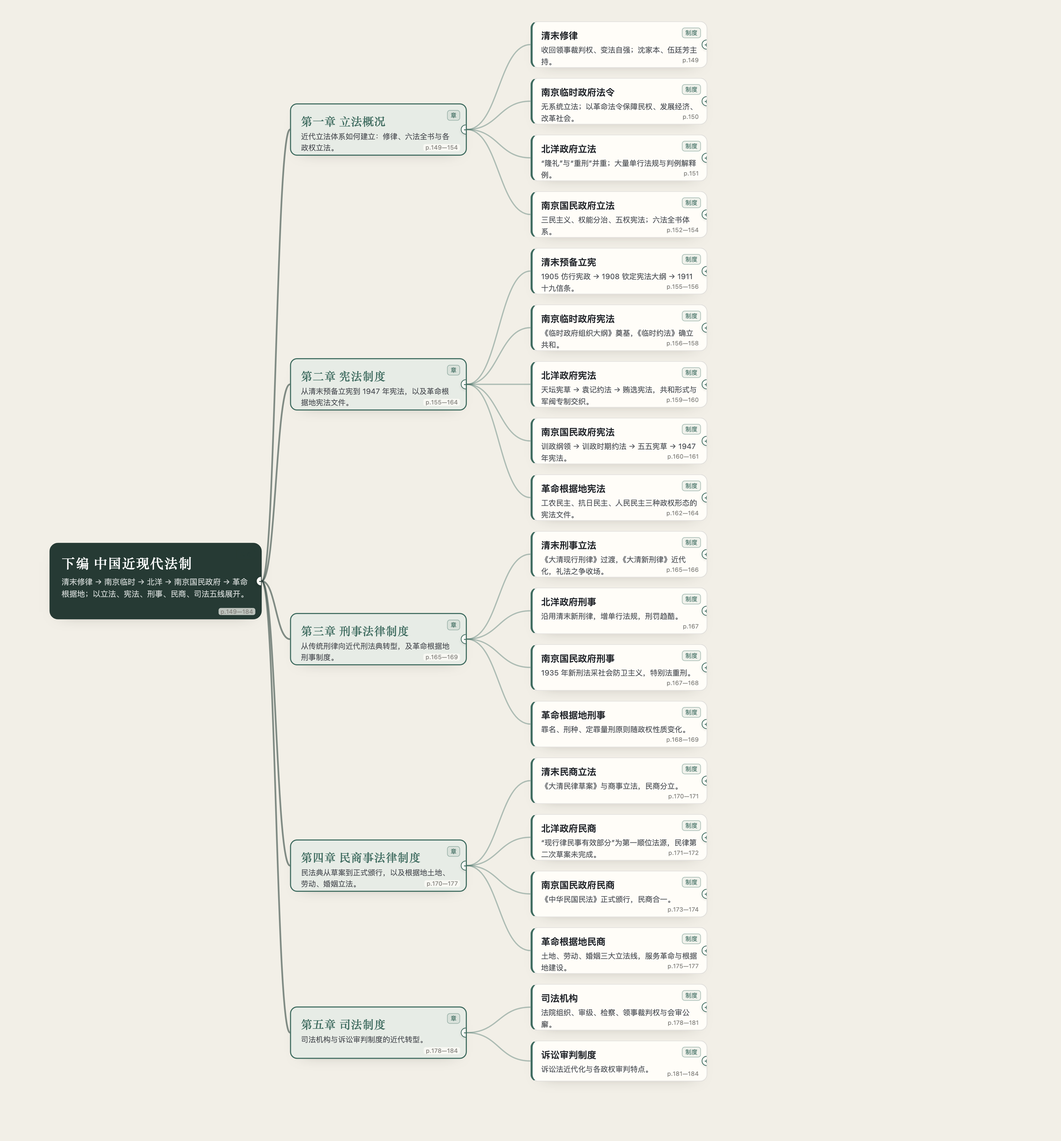
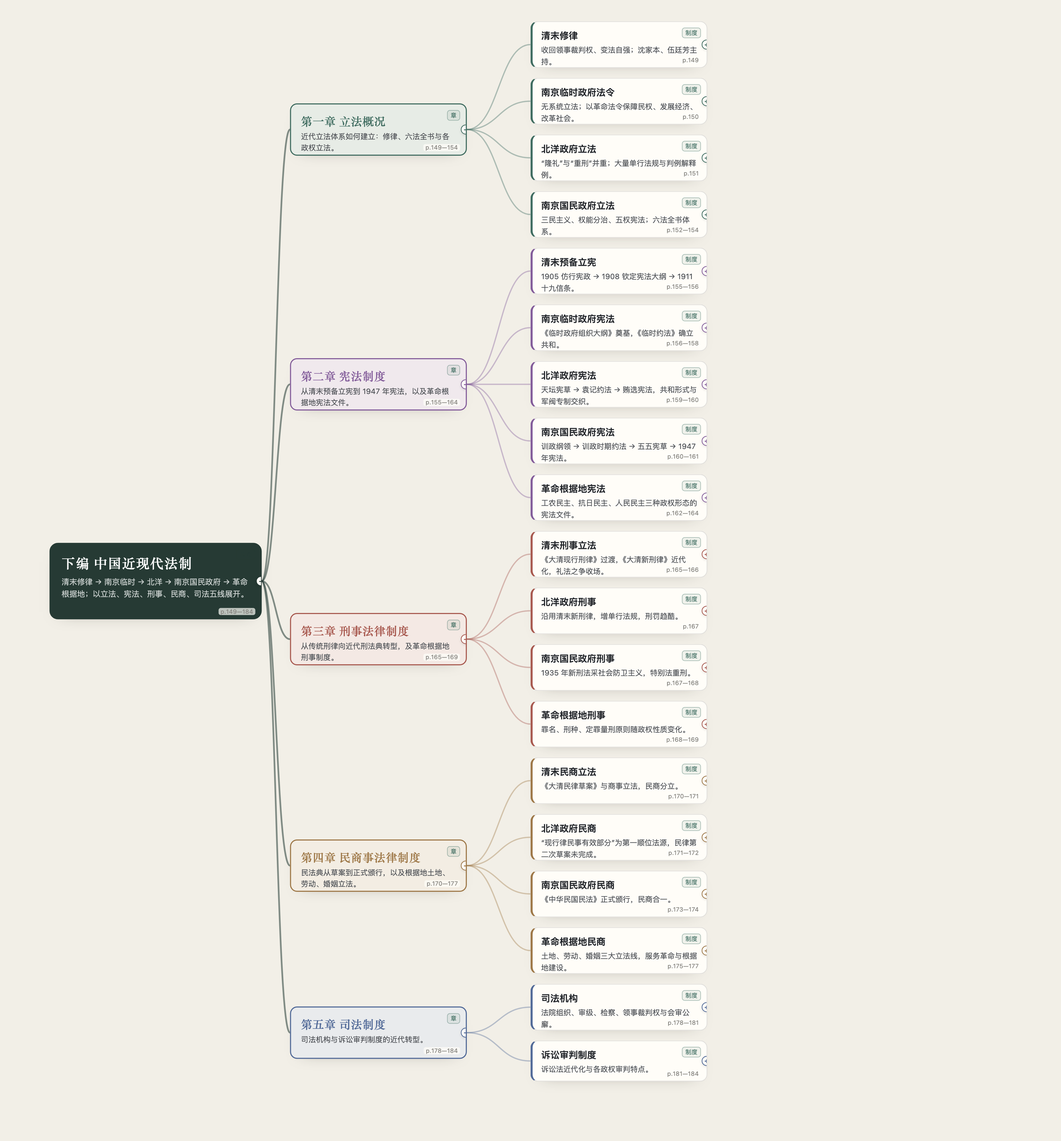
fix: 修正思维导图章节配色与下载资源

diff --git a/app/mindmap/index.html b/app/mindmap/index.html
@@ -110,7 +110,7 @@ body.export .node{cursor:default}
 </div>
 
 <script>
-const DATA = {"title": "下编 中国近现代法制", "note": "清末修律 → 南京临时 → 北洋 → 南京国民政府 → 革命根据地；以立法、宪法、刑事、民商、司法五线展开。", "page": "p.149—184", "tag": "总览", "children": [{"title": "第一章 立法概况", "note": "近代立法体系如何建立：修律、六法全书与各政权立法。", "page": "p.149—154", "tag": "章", "children": [{"title": "清末修律", "note": "收回领事裁判权、变法自强；沈家本、伍廷芳主持。", "page": "p.149", "tag": "制度", "children": [{"title": "修律动因", "note": "收回领事裁判权、变法自强；1901《江楚会奏变法三折》。", "page": "p.149", "tag": "背景", "children": [], "_depth": 3, "_chapter": 1, "_color": null}, {"title": "指导思想", "note": "“中外通行，有裨治理”；“不戾乎中国数千年相传之礼教民情”。", "page": "p.149", "tag": "原则", "children": [], "_depth": 3, "_chapter": 1, "_color": null}, {"title": "修律机关", "note": "修订法律馆（1904 开始办公）；修律大臣沈家本、伍廷芳。", "page": "p.149", "tag": "机构", "children": [], "_depth": 3, "_chapter": 1, "_color": null}, {"title": "主要特点", "note": "借西法形式、固守君主专制与伦理纲常；诸法合体解体；保皇实质。", "page": "p.150", "tag": "特点", "children": [], "_depth": 3, "_chapter": 1, "_color": null}, {"title": "历史意义", "note": "中华法系解体；法律近代化基础；传播西法；推动资本主义与法学教育。", "page": "p.150", "tag": "意义", "children": [], "_depth": 3, "_chapter": 1, "_color": null}], "_depth": 2, "_chapter": 1, "_color": null}, {"title": "南京临时政府法令", "note": "无系统立法；以革命法令保障民权、发展经济、改革社会。", "page": "p.150", "tag": "制度", "children": [{"title": "保障民权", "note": "《保护人民财产令》；禁止买卖人口、废除贱民、保护华侨。", "page": "p.150", "tag": "制度", "children": [], "_depth": 3, "_chapter": 1, "_color": null}, {"title": "发展经济", "note": "兴办实业、奖励农垦、鼓励华侨投资；商业注册、商业银行则例。", "page": "p.150", "tag": "制度", "children": [], "_depth": 3, "_chapter": 1, "_color": null}, {"title": "文化教育", "note": "奖励女学、男女同校、废止读经、禁用前清教科书。", "page": "p.150", "tag": "制度", "children": [], "_depth": 3, "_chapter": 1, "_color": null}, {"title": "社会改革", "note": "禁赌、剪辫、劝禁缠足、改革称呼旧制。", "page": "p.150", "tag": "制度", "children": [], "_depth": 3, "_chapter": 1, "_color": null}], "_depth": 2, "_chapter": 1, "_color": null}, {"title": "北洋政府立法", "note": "“隆礼”与“重刑”并重；大量单行法规与判例解释例。", "page": "p.151", "tag": "制度", "children": [{"title": "立法指导思想", "note": "倡导伦理纲常、尊孔读经；隆礼重刑，严刑峻法。", "page": "p.151", "tag": "原则", "children": [], "_depth": 3, "_chapter": 1, "_color": null}, {"title": "立法活动特点", "note": "采西方原则；沿用删改清末法律；大量单行法规；判例解释例为重要渊源。", "page": "p.151", "tag": "特点", "children": [], "_depth": 3, "_chapter": 1, "_color": null}], "_depth": 2, "_chapter": 1, "_color": null}, {"title": "南京国民政府立法", "note": "三民主义、权能分治、五权宪法；六法全书体系。", "page": "p.152—154", "tag": "制度", "children": [{"title": "立法指导思想", "note": "三民主义为核心；权能分治（政权/治权）；五权宪法；军政—训政—宪政。", "page": "p.152", "tag": "原则", "children": [], "_depth": 3, "_chapter": 1, "_color": null}, {"title": "法律制度特点", "note": "以孙中山遗教为根本；特别法多于普通法且效力高；六法全书；不成文法重要。", "page": "p.153", "tag": "特点", "children": [], "_depth": 3, "_chapter": 1, "_color": null}, {"title": "立法阶段", "note": "1927—1936 形成；1937—1945 发展（两面性）；1946—1949 完善与崩溃。", "page": "p.153", "tag": "背景", "children": [], "_depth": 3, "_chapter": 1, "_color": null}, {"title": "六法全书", "note": "宪法、民法、民诉、刑法、刑诉、行政法；基本法典+相关法规+判例解释例。", "page": "p.153—154", "tag": "法典", "children": [], "_depth": 3, "_chapter": 1, "_color": null}], "_depth": 2, "_chapter": 1, "_color": null}], "_depth": 1, "_chapter": 1, "_color": "#2f6d5f"}, {"title": "第二章 宪法制度", "note": "从清末预备立宪到 1947 年宪法，以及革命根据地宪法文件。", "page": "p.155—164", "tag": "章", "children": [{"title": "清末预备立宪", "note": "1905 仿行宪政 → 1908 钦定宪法大纲 → 1911 十九信条。", "page": "p.155—156", "tag": "制度", "children": [{"title": "预备立宪时间线", "note": "1905 五大臣考察；1906 宣示预备立宪；1907 筹设资政院/咨议局；1908 九年清单；1909 咨议局；1910 资政院；1911 十九信条。", "page": "p.155", "tag": "背景", "children": [], "_depth": 3, "_chapter": 1, "_color": null}, {"title": "《钦定宪法大纲》", "note": "1908；中国第一个宪法性文件；宪政编查馆；君上大权+臣民权利义务。", "page": "p.155—156", "tag": "法典", "children": [], "_depth": 3, "_chapter": 1, "_color": null}, {"title": "《十九信条》", "note": "1911；资政院；君主立宪；缩皇权、扩国会；未提人民权利。", "page": "p.155—156", "tag": "法典", "children": [], "_depth": 3, "_chapter": 1, "_color": null}, {"title": "资政院与咨议局", "note": "资政院中央咨询机关（1910）；咨议局地方咨询机关（1909）；形式议会、实为咨询。", "page": "p.156", "tag": "机构", "children": [], "_depth": 3, "_chapter": 1, "_color": null}], "_depth": 2, "_chapter": 1, "_color": null}, {"title": "南京临时政府宪法", "note": "《临时政府组织大纲》奠基，《临时约法》确立共和。", "page": "p.156—158", "tag": "制度", "children": [{"title": "《临时政府组织大纲》", "note": "1911.12；各省都督府代表会议；总统制；参议院；临时中央审判所；未列人民权利。", "page": "p.156", "tag": "法典", "children": [], "_depth": 3, "_chapter": 1, "_color": null}, {"title": "《临时约法》内容", "note": "1912.3；7章56条；民主共和、三权分立、责任内阁、人民权利、私有财产。", "page": "p.157", "tag": "法典", "children": [], "_depth": 3, "_chapter": 1, "_color": null}, {"title": "《临时约法》特点", "note": "改总统制为责任内阁制；扩大参议院权力；特别修改程序（防袁）。", "page": "p.158", "tag": "特点", "children": [], "_depth": 3, "_chapter": 1, "_color": null}, {"title": "《临时约法》意义", "note": "第一部资产阶级共和国性质宪法文件；否定君主专制；因人立法局限。", "page": "p.158", "tag": "意义", "children": [], "_depth": 3, "_chapter": 1, "_color": null}], "_depth": 2, "_chapter": 1, "_color": null}, {"title": "北洋政府宪法", "note": "天坛宪草 → 袁记约法 → 贿选宪法，共和形式与军阀专制交织。", "page": "p.159—160", "tag": "制度", "children": [{"title": "天坛宪草", "note": "1913；第一部宪法草案；责任内阁；国会权力+国会委员会；总统任期5年；审计院。", "page": "p.159", "tag": "法典", "children": [], "_depth": 3, "_chapter": 1, "_color": null}, {"title": "袁记约法", "note": "1914；总统制；废国会设参政院；总统10年可连任/世袭；权利受限。", "page": "p.159", "tag": "法典", "children": [], "_depth": 3, "_chapter": 1, "_color": null}, {"title": "贿选宪法", "note": "1923；第一部正式宪法；条文完备、形式民主；地方自治实为军阀势力范围。", "page": "p.160", "tag": "法典", "children": [], "_depth": 3, "_chapter": 1, "_color": null}], "_depth": 2, "_chapter": 1, "_color": null}, {"title": "南京国民政府宪法", "note": "训政纲领 → 训政时期约法 → 五五宪草 → 1947 年宪法。", "page": "p.160—161", "tag": "制度", "children": [{"title": "《训政纲领》", "note": "1928；国民党一党专政、以党训政；中央政治会议领导政府。", "page": "p.160", "tag": "法典", "children": [], "_depth": 3, "_chapter": 1, "_color": null}, {"title": "《训政时期约法》", "note": "1931；党治；五院制；权利限制；发展官僚资本。", "page": "p.160", "tag": "法典", "children": [], "_depth": 3, "_chapter": 1, "_color": null}, {"title": "《五五宪草》", "note": "1936；未议决；1947 年宪法蓝本；总统制、国民大会、五院制衡。", "page": "p.161", "tag": "法典", "children": [], "_depth": 3, "_chapter": 1, "_color": null}, {"title": "1947 年《中华民国宪法》", "note": "三民主义/五权；国民大会；总统制受制约；中央地方分权；1948 年《动员戡乱时期临时条款》。", "page": "p.161", "tag": "法典", "children": [], "_depth": 3, "_chapter": 1, "_color": null}], "_depth": 2, "_chapter": 1, "_color": null}, {"title": "革命根据地宪法", "note": "工农民主、抗日民主、人民民主三种政权形态的宪法文件。", "page": "p.162—164", "tag": "制度", "children": [{"title": "《中华苏维埃共和国宪法大纲》", "note": "1931；工农民主专政；工农兵代表大会；权利；外交；意义与局限。", "page": "p.162", "tag": "法典", "children": [], "_depth": 3, "_chapter": 1, "_color": null}, {"title": "《陕甘宁边区施政纲领》", "note": "1941；抗日/团结/民主；参议会+三三制；司法廉洁；经济文化。", "page": "p.163", "tag": "法典", "children": [], "_depth": 3, "_chapter": 1, "_color": null}, {"title": "《陕甘宁边区宪法原则》", "note": "1946；人民代表会议制；民主权利/民族区域自治；司法原则；经济文化。", "page": "p.163", "tag": "法典", "children": [], "_depth": 3, "_chapter": 1, "_color": null}], "_depth": 2, "_chapter": 1, "_color": null}], "_depth": 1, "_chapter": 1, "_color": "#2f6d5f"}, {"title": "第三章 刑事法律制度", "note": "从传统刑律向近代刑法典转型，及革命根据地刑事制度。", "page": "p.165—169", "tag": "章", "children": [{"title": "清末刑事立法", "note": "《大清现行刑律》过渡，《大清新刑律》近代化，礼法之争收场。", "page": "p.165—166", "tag": "制度", "children": [{"title": "《大清现行刑律》", "note": "1910.5；过渡；保留名例/诸法合体/十恶/律例合编；删酷刑缘坐、区分民刑、新罪名、五刑。", "page": "p.165", "tag": "法典", "children": [], "_depth": 3, "_chapter": 1, "_color": null}, {"title": "《大清新刑律》", "note": "1911.1；第一部近代专门刑法典；总则/分则+《暂行章程》；取消十恶；主刑5/从刑2；西原则。", "page": "p.165—166", "tag": "法典", "children": [], "_depth": 3, "_chapter": 1, "_color": null}, {"title": "礼法之争", "note": "礼教派张之洞、劳乃宣 vs 法理派沈家本、杨度；焦点5；结局《暂行章程》。", "page": "p.166", "tag": "对比", "children": [], "_depth": 3, "_chapter": 1, "_color": null}], "_depth": 2, "_chapter": 1, "_color": null}, {"title": "北洋政府刑事", "note": "沿用清末新刑律，增单行法规，刑罚趋酷。", "page": "p.167", "tag": "制度", "children": [{"title": "《暂行新刑律》", "note": "以《大清新刑律》为基础；删帝制/皇室特权；改“帝国”为“中华民国”、“臣民”为“国民”。", "page": "p.167", "tag": "法典", "children": [], "_depth": 3, "_chapter": 1, "_color": null}, {"title": "单行刑事法规", "note": "《戒严法》《治安警察条例》《惩治盗匪法》《易笞条例》等；恢复发遣、笞刑。", "page": "p.167", "tag": "法典", "children": [], "_depth": 3, "_chapter": 1, "_color": null}], "_depth": 2, "_chapter": 1, "_color": null}, {"title": "南京国民政府刑事", "note": "1935 年新刑法采社会防卫主义，特别法重刑。", "page": "p.167—168", "tag": "制度", "children": [{"title": "1935 年《中华民国刑法》", "note": "主观主义/社会防卫；保安处分；保留尊亲属加重、同居相隐、亲族盗免、纳妾；从新从轻。", "page": "p.167", "tag": "法典", "children": [], "_depth": 3, "_chapter": 1, "_color": null}, {"title": "刑事特别法", "note": "数量多、效力高、重刑；镇压共产党与进步人士。", "page": "p.168", "tag": "特点", "children": [], "_depth": 3, "_chapter": 1, "_color": null}], "_depth": 2, "_chapter": 1, "_color": null}, {"title": "革命根据地刑事", "note": "罪名、刑种、定罪量刑原则随政权性质变化。", "page": "p.168—169", "tag": "制度", "children": [{"title": "罪名", "note": "抗日：汉奸、破坏坚壁财物、贪污；人民民主：战犯、地主恶霸、土匪、反动党团、会道门。", "page": "p.168", "tag": "制度", "children": [], "_depth": 3, "_chapter": 1, "_color": null}, {"title": "刑种", "note": "抗日主刑死刑/有期/劳役，从刑罚金/褫夺公权/没收；人民民主加无期、管制。", "page": "p.168—169", "tag": "制度", "children": [], "_depth": 3, "_chapter": 1, "_color": null}, {"title": "定罪量刑原则", "note": "工农民主5项；抗日3项；人民民主“首恶必办、胁从不问、立功受奖”。", "page": "p.169", "tag": "原则", "children": [], "_depth": 3, "_chapter": 1, "_color": null}], "_depth": 2, "_chapter": 1, "_color": null}], "_depth": 1, "_chapter": 1, "_color": "#2f6d5f"}, {"title": "第四章 民商事法律制度", "note": "民法典从草案到正式颁行，以及根据地土地、劳动、婚姻立法。", "page": "p.170—177", "tag": "章", "children": [{"title": "清末民商立法", "note": "《大清民律草案》与商事立法，民商分立。", "page": "p.170—171", "tag": "制度", "children": [{"title": "《大清民律草案》", "note": "1911.10；5编；民商分立；前3编松冈义正（日德瑞），后2编礼学馆传统；第一部民法典草案。", "page": "p.170", "tag": "法典", "children": [], "_depth": 3, "_chapter": 1, "_color": null}, {"title": "商事立法", "note": "1903—1907/1907—1911；《钦定大清商律》《公司注册试办章程》《商标注册试办章程》《破产律》等；特点3。", "page": "p.170—171", "tag": "法典", "children": [], "_depth": 3, "_chapter": 1, "_color": null}], "_depth": 2, "_chapter": 1, "_color": null}, {"title": "北洋政府民商", "note": "“现行律民事有效部分”为第一顺位法源，民律第二次草案未完成。", "page": "p.171—172", "tag": "制度", "children": [{"title": "民事法律渊源", "note": "现行律民事有效部分（近20年）；单行法令；判例解释例；习惯法/条理。", "page": "p.171", "tag": "制度", "children": [], "_depth": 3, "_chapter": 1, "_color": null}, {"title": "《民律第二次草案》", "note": "1926；5编1522条；采固有法/判例；社会本位；未正式立法。", "page": "p.172", "tag": "法典", "children": [], "_depth": 3, "_chapter": 1, "_color": null}, {"title": "商事法规", "note": "《矿业条例》《森林法》《公司条例》《交易所法》《破产法草案》《票据法草案》等；多未完成立法。", "page": "p.172", "tag": "法典", "children": [], "_depth": 3, "_chapter": 1, "_color": null}], "_depth": 2, "_chapter": 1, "_color": null}, {"title": "南京国民政府民商", "note": "《中华民国民法》正式颁行，民商合一。", "page": "p.173—174", "tag": "制度", "children": [{"title": "《中华民国民法》", "note": "1929—1930；5编；民商合一；最新学理/婚姻家庭固有法/习惯法理/私有财产/社会本位。", "page": "p.173", "tag": "法典", "children": [], "_depth": 3, "_chapter": 1, "_color": null}, {"title": "单行商事立法", "note": "银行法、交易所法、票据法、公司法、海商法、保险法、破产法。", "page": "p.174", "tag": "法典", "children": [], "_depth": 3, "_chapter": 1, "_color": null}], "_depth": 2, "_chapter": 1, "_color": null}, {"title": "革命根据地民商", "note": "土地、劳动、婚姻三大立法线，服务革命与根据地建设。", "page": "p.175—177", "tag": "制度", "children": [{"title": "土地立法", "note": "井冈山1928/兴国1929/苏维埃土地法1931；抗日减租减息；五四指示1946；《中国土地法大纲》1947。", "page": "p.175—176", "tag": "法典", "children": [], "_depth": 3, "_chapter": 1, "_color": null}, {"title": "劳动立法", "note": "1931《中华苏维埃共和国劳动法》；抗日保护工人+团结资产阶级；1948 六次劳大。", "page": "p.176—177", "tag": "法典", "children": [], "_depth": 3, "_chapter": 1, "_color": null}, {"title": "婚姻立法", "note": "1934《中华苏维埃共和国婚姻法》（婚姻自由/婚龄/离婚自由）；抗日婚龄男20女18；人民民主政治条件/干部离婚。", "page": "p.177", "tag": "法典", "children": [], "_depth": 3, "_chapter": 1, "_color": null}], "_depth": 2, "_chapter": 1, "_color": null}], "_depth": 1, "_chapter": 1, "_color": "#2f6d5f"}, {"title": "第五章 司法制度", "note": "司法机构与诉讼审判制度的近代转型。", "page": "p.178—184", "tag": "章", "children": [{"title": "司法机构", "note": "法院组织、审级、检察、领事裁判权与会审公廨。", "page": "p.178—181", "tag": "制度", "children": [{"title": "清末", "note": "1906《大理院审判编制法》（第一部法院编制法、四级三审）；1910《法院编制法》；法部/大理院/审判厅/检察厅（审检合署）。", "page": "p.178—179", "tag": "机构", "children": [], "_depth": 3, "_chapter": 1, "_color": null}, {"title": "领事裁判权", "note": "1843《中英五口通商章程》《虎门条约》确立；被告主义；四类案件管辖。", "page": "p.178—179", "tag": "制度", "children": [], "_depth": 3, "_chapter": 1, "_color": null}, {"title": "会审公廨", "note": "1864 上海租界；1868《上海洋泾浜设官会审章程》；领事裁判权制度的延伸。", "page": "p.179", "tag": "机构", "children": [], "_depth": 3, "_chapter": 1, "_color": null}, {"title": "南京临时政府", "note": "临时中央审判所（未成立）/法院；司法部。", "page": "p.179", "tag": "机构", "children": [], "_depth": 3, "_chapter": 1, "_color": null}, {"title": "北洋政府", "note": "《暂行法院编制法》；平政院（最早行政诉讼）；四级三审；县知事兼理司法；军法审判。", "page": "p.179—180", "tag": "机构", "children": [], "_depth": 3, "_chapter": 1, "_color": null}, {"title": "南京国民政府", "note": "1932/1935《法院组织法》；三级三审；司法院/最高法院/行政法院/官吏惩戒委员会/特种刑事法庭。", "page": "p.180", "tag": "机构", "children": [], "_depth": 3, "_chapter": 1, "_color": null}, {"title": "革命根据地", "note": "工农民主四级二审/审检合一/政治保卫局；抗日两级两审/三级三审；人民民主三级三审/人民法庭。", "page": "p.180—181", "tag": "机构", "children": [], "_depth": 3, "_chapter": 1, "_color": null}], "_depth": 2, "_chapter": 1, "_color": null}, {"title": "诉讼审判制度", "note": "诉讼法近代化与各政权审判特点。", "page": "p.181—184", "tag": "制度", "children": [{"title": "清末诉讼法", "note": "1906《刑事民事诉讼法草案》（陪审/律师，搁置）；1909《大清刑事诉讼律草案》；1909《大清民事诉讼律草案》（第一部法典化民诉草案）；改革5项。", "page": "p.181—182", "tag": "法典", "children": [], "_depth": 3, "_chapter": 1, "_color": null}, {"title": "南京临时政府", "note": "司法独立；禁止刑讯；禁止体罚；公开审判及陪审；律师制度。", "page": "p.182", "tag": "原则", "children": [], "_depth": 3, "_chapter": 1, "_color": null}, {"title": "北洋政府", "note": "四级三审；兼理司法法院；军法审判干预司法。", "page": "p.182", "tag": "特点", "children": [], "_depth": 3, "_chapter": 1, "_color": null}, {"title": "南京国民政府", "note": "刑诉1928/1935；民诉1930—31/1935；特点：严密侦查、自由心证、秘密审判、军法审判、美军特权。", "page": "p.183", "tag": "特点", "children": [], "_depth": 3, "_chapter": 1, "_color": null}, {"title": "革命根据地", "note": "抗日：马锡五审判方式、人民调解（方式/原则/范围/处理）；人民民主：废除六法全书、确定司法原则。", "page": "p.183—184", "tag": "制度", "children": [], "_depth": 3, "_chapter": 1, "_color": null}], "_depth": 2, "_chapter": 1, "_color": null}], "_depth": 1, "_chapter": 1, "_color": "#2f6d5f"}], "_depth": 0};
+const DATA = {"title": "下编 中国近现代法制", "note": "清末修律 → 南京临时 → 北洋 → 南京国民政府 → 革命根据地；以立法、宪法、刑事、民商、司法五线展开。", "page": "p.149—184", "tag": "总览", "children": [{"title": "第一章 立法概况", "note": "近代立法体系如何建立：修律、六法全书与各政权立法。", "page": "p.149—154", "tag": "章", "children": [{"title": "清末修律", "note": "收回领事裁判权、变法自强；沈家本、伍廷芳主持。", "page": "p.149", "tag": "制度", "children": [{"title": "修律动因", "note": "收回领事裁判权、变法自强；1901《江楚会奏变法三折》。", "page": "p.149", "tag": "背景", "children": [], "_depth": 3, "_chapter": 1}, {"title": "指导思想", "note": "“中外通行，有裨治理”；“不戾乎中国数千年相传之礼教民情”。", "page": "p.149", "tag": "原则", "children": [], "_depth": 3, "_chapter": 1}, {"title": "修律机关", "note": "修订法律馆（1904 开始办公）；修律大臣沈家本、伍廷芳。", "page": "p.149", "tag": "机构", "children": [], "_depth": 3, "_chapter": 1}, {"title": "主要特点", "note": "借西法形式、固守君主专制与伦理纲常；诸法合体解体；保皇实质。", "page": "p.150", "tag": "特点", "children": [], "_depth": 3, "_chapter": 1}, {"title": "历史意义", "note": "中华法系解体；法律近代化基础；传播西法；推动资本主义与法学教育。", "page": "p.150", "tag": "意义", "children": [], "_depth": 3, "_chapter": 1}], "_depth": 2, "_chapter": 1}, {"title": "南京临时政府法令", "note": "无系统立法；以革命法令保障民权、发展经济、改革社会。", "page": "p.150", "tag": "制度", "children": [{"title": "保障民权", "note": "《保护人民财产令》；禁止买卖人口、废除贱民、保护华侨。", "page": "p.150", "tag": "制度", "children": [], "_depth": 3, "_chapter": 1}, {"title": "发展经济", "note": "兴办实业、奖励农垦、鼓励华侨投资；商业注册、商业银行则例。", "page": "p.150", "tag": "制度", "children": [], "_depth": 3, "_chapter": 1}, {"title": "文化教育", "note": "奖励女学、男女同校、废止读经、禁用前清教科书。", "page": "p.150", "tag": "制度", "children": [], "_depth": 3, "_chapter": 1}, {"title": "社会改革", "note": "禁赌、剪辫、劝禁缠足、改革称呼旧制。", "page": "p.150", "tag": "制度", "children": [], "_depth": 3, "_chapter": 1}], "_depth": 2, "_chapter": 1}, {"title": "北洋政府立法", "note": "“隆礼”与“重刑”并重；大量单行法规与判例解释例。", "page": "p.151", "tag": "制度", "children": [{"title": "立法指导思想", "note": "倡导伦理纲常、尊孔读经；隆礼重刑，严刑峻法。", "page": "p.151", "tag": "原则", "children": [], "_depth": 3, "_chapter": 1}, {"title": "立法活动特点", "note": "采西方原则；沿用删改清末法律；大量单行法规；判例解释例为重要渊源。", "page": "p.151", "tag": "特点", "children": [], "_depth": 3, "_chapter": 1}], "_depth": 2, "_chapter": 1}, {"title": "南京国民政府立法", "note": "三民主义、权能分治、五权宪法；六法全书体系。", "page": "p.152—154", "tag": "制度", "children": [{"title": "立法指导思想", "note": "三民主义为核心；权能分治（政权/治权）；五权宪法；军政—训政—宪政。", "page": "p.152", "tag": "原则", "children": [], "_depth": 3, "_chapter": 1}, {"title": "法律制度特点", "note": "以孙中山遗教为根本；特别法多于普通法且效力高；六法全书；不成文法重要。", "page": "p.153", "tag": "特点", "children": [], "_depth": 3, "_chapter": 1}, {"title": "立法阶段", "note": "1927—1936 形成；1937—1945 发展（两面性）；1946—1949 完善与崩溃。", "page": "p.153", "tag": "背景", "children": [], "_depth": 3, "_chapter": 1}, {"title": "六法全书", "note": "宪法、民法、民诉、刑法、刑诉、行政法；基本法典+相关法规+判例解释例。", "page": "p.153—154", "tag": "法典", "children": [], "_depth": 3, "_chapter": 1}], "_depth": 2, "_chapter": 1}], "_depth": 1, "_chapter": 1, "_color": "#2f6d5f"}, {"title": "第二章 宪法制度", "note": "从清末预备立宪到 1947 年宪法，以及革命根据地宪法文件。", "page": "p.155—164", "tag": "章", "children": [{"title": "清末预备立宪", "note": "1905 仿行宪政 → 1908 钦定宪法大纲 → 1911 十九信条。", "page": "p.155—156", "tag": "制度", "children": [{"title": "预备立宪时间线", "note": "1905 五大臣考察；1906 宣示预备立宪；1907 筹设资政院/咨议局；1908 九年清单；1909 咨议局；1910 资政院；1911 十九信条。", "page": "p.155", "tag": "背景", "children": [], "_depth": 3, "_chapter": 2}, {"title": "《钦定宪法大纲》", "note": "1908；中国第一个宪法性文件；宪政编查馆；君上大权+臣民权利义务。", "page": "p.155—156", "tag": "法典", "children": [], "_depth": 3, "_chapter": 2}, {"title": "《十九信条》", "note": "1911；资政院；君主立宪；缩皇权、扩国会；未提人民权利。", "page": "p.155—156", "tag": "法典", "children": [], "_depth": 3, "_chapter": 2}, {"title": "资政院与咨议局", "note": "资政院中央咨询机关（1910）；咨议局地方咨询机关（1909）；形式议会、实为咨询。", "page": "p.156", "tag": "机构", "children": [], "_depth": 3, "_chapter": 2}], "_depth": 2, "_chapter": 2}, {"title": "南京临时政府宪法", "note": "《临时政府组织大纲》奠基，《临时约法》确立共和。", "page": "p.156—158", "tag": "制度", "children": [{"title": "《临时政府组织大纲》", "note": "1911.12；各省都督府代表会议；总统制；参议院；临时中央审判所；未列人民权利。", "page": "p.156", "tag": "法典", "children": [], "_depth": 3, "_chapter": 2}, {"title": "《临时约法》内容", "note": "1912.3；7章56条；民主共和、三权分立、责任内阁、人民权利、私有财产。", "page": "p.157", "tag": "法典", "children": [], "_depth": 3, "_chapter": 2}, {"title": "《临时约法》特点", "note": "改总统制为责任内阁制；扩大参议院权力；特别修改程序（防袁）。", "page": "p.158", "tag": "特点", "children": [], "_depth": 3, "_chapter": 2}, {"title": "《临时约法》意义", "note": "第一部资产阶级共和国性质宪法文件；否定君主专制；因人立法局限。", "page": "p.158", "tag": "意义", "children": [], "_depth": 3, "_chapter": 2}], "_depth": 2, "_chapter": 2}, {"title": "北洋政府宪法", "note": "天坛宪草 → 袁记约法 → 贿选宪法，共和形式与军阀专制交织。", "page": "p.159—160", "tag": "制度", "children": [{"title": "天坛宪草", "note": "1913；第一部宪法草案；责任内阁；国会权力+国会委员会；总统任期5年；审计院。", "page": "p.159", "tag": "法典", "children": [], "_depth": 3, "_chapter": 2}, {"title": "袁记约法", "note": "1914；总统制；废国会设参政院；总统10年可连任/世袭；权利受限。", "page": "p.159", "tag": "法典", "children": [], "_depth": 3, "_chapter": 2}, {"title": "贿选宪法", "note": "1923；第一部正式宪法；条文完备、形式民主；地方自治实为军阀势力范围。", "page": "p.160", "tag": "法典", "children": [], "_depth": 3, "_chapter": 2}], "_depth": 2, "_chapter": 2}, {"title": "南京国民政府宪法", "note": "训政纲领 → 训政时期约法 → 五五宪草 → 1947 年宪法。", "page": "p.160—161", "tag": "制度", "children": [{"title": "《训政纲领》", "note": "1928；国民党一党专政、以党训政；中央政治会议领导政府。", "page": "p.160", "tag": "法典", "children": [], "_depth": 3, "_chapter": 2}, {"title": "《训政时期约法》", "note": "1931；党治；五院制；权利限制；发展官僚资本。", "page": "p.160", "tag": "法典", "children": [], "_depth": 3, "_chapter": 2}, {"title": "《五五宪草》", "note": "1936；未议决；1947 年宪法蓝本；总统制、国民大会、五院制衡。", "page": "p.161", "tag": "法典", "children": [], "_depth": 3, "_chapter": 2}, {"title": "1947 年《中华民国宪法》", "note": "三民主义/五权；国民大会；总统制受制约；中央地方分权；1948 年《动员戡乱时期临时条款》。", "page": "p.161", "tag": "法典", "children": [], "_depth": 3, "_chapter": 2}], "_depth": 2, "_chapter": 2}, {"title": "革命根据地宪法", "note": "工农民主、抗日民主、人民民主三种政权形态的宪法文件。", "page": "p.162—164", "tag": "制度", "children": [{"title": "《中华苏维埃共和国宪法大纲》", "note": "1931；工农民主专政；工农兵代表大会；权利；外交；意义与局限。", "page": "p.162", "tag": "法典", "children": [], "_depth": 3, "_chapter": 2}, {"title": "《陕甘宁边区施政纲领》", "note": "1941；抗日/团结/民主；参议会+三三制；司法廉洁；经济文化。", "page": "p.163", "tag": "法典", "children": [], "_depth": 3, "_chapter": 2}, {"title": "《陕甘宁边区宪法原则》", "note": "1946；人民代表会议制；民主权利/民族区域自治；司法原则；经济文化。", "page": "p.163", "tag": "法典", "children": [], "_depth": 3, "_chapter": 2}], "_depth": 2, "_chapter": 2}], "_depth": 1, "_chapter": 2, "_color": "#8a5a9e"}, {"title": "第三章 刑事法律制度", "note": "从传统刑律向近代刑法典转型，及革命根据地刑事制度。", "page": "p.165—169", "tag": "章", "children": [{"title": "清末刑事立法", "note": "《大清现行刑律》过渡，《大清新刑律》近代化，礼法之争收场。", "page": "p.165—166", "tag": "制度", "children": [{"title": "《大清现行刑律》", "note": "1910.5；过渡；保留名例/诸法合体/十恶/律例合编；删酷刑缘坐、区分民刑、新罪名、五刑。", "page": "p.165", "tag": "法典", "children": [], "_depth": 3, "_chapter": 3}, {"title": "《大清新刑律》", "note": "1911.1；第一部近代专门刑法典；总则/分则+《暂行章程》；取消十恶；主刑5/从刑2；西原则。", "page": "p.165—166", "tag": "法典", "children": [], "_depth": 3, "_chapter": 3}, {"title": "礼法之争", "note": "礼教派张之洞、劳乃宣 vs 法理派沈家本、杨度；焦点5；结局《暂行章程》。", "page": "p.166", "tag": "对比", "children": [], "_depth": 3, "_chapter": 3}], "_depth": 2, "_chapter": 3}, {"title": "北洋政府刑事", "note": "沿用清末新刑律，增单行法规，刑罚趋酷。", "page": "p.167", "tag": "制度", "children": [{"title": "《暂行新刑律》", "note": "以《大清新刑律》为基础；删帝制/皇室特权；改“帝国”为“中华民国”、“臣民”为“国民”。", "page": "p.167", "tag": "法典", "children": [], "_depth": 3, "_chapter": 3}, {"title": "单行刑事法规", "note": "《戒严法》《治安警察条例》《惩治盗匪法》《易笞条例》等；恢复发遣、笞刑。", "page": "p.167", "tag": "法典", "children": [], "_depth": 3, "_chapter": 3}], "_depth": 2, "_chapter": 3}, {"title": "南京国民政府刑事", "note": "1935 年新刑法采社会防卫主义，特别法重刑。", "page": "p.167—168", "tag": "制度", "children": [{"title": "1935 年《中华民国刑法》", "note": "主观主义/社会防卫；保安处分；保留尊亲属加重、同居相隐、亲族盗免、纳妾；从新从轻。", "page": "p.167", "tag": "法典", "children": [], "_depth": 3, "_chapter": 3}, {"title": "刑事特别法", "note": "数量多、效力高、重刑；镇压共产党与进步人士。", "page": "p.168", "tag": "特点", "children": [], "_depth": 3, "_chapter": 3}], "_depth": 2, "_chapter": 3}, {"title": "革命根据地刑事", "note": "罪名、刑种、定罪量刑原则随政权性质变化。", "page": "p.168—169", "tag": "制度", "children": [{"title": "罪名", "note": "抗日：汉奸、破坏坚壁财物、贪污；人民民主：战犯、地主恶霸、土匪、反动党团、会道门。", "page": "p.168", "tag": "制度", "children": [], "_depth": 3, "_chapter": 3}, {"title": "刑种", "note": "抗日主刑死刑/有期/劳役，从刑罚金/褫夺公权/没收；人民民主加无期、管制。", "page": "p.168—169", "tag": "制度", "children": [], "_depth": 3, "_chapter": 3}, {"title": "定罪量刑原则", "note": "工农民主5项；抗日3项；人民民主“首恶必办、胁从不问、立功受奖”。", "page": "p.169", "tag": "原则", "children": [], "_depth": 3, "_chapter": 3}], "_depth": 2, "_chapter": 3}], "_depth": 1, "_chapter": 3, "_color": "#b4534b"}, {"title": "第四章 民商事法律制度", "note": "民法典从草案到正式颁行，以及根据地土地、劳动、婚姻立法。", "page": "p.170—177", "tag": "章", "children": [{"title": "清末民商立法", "note": "《大清民律草案》与商事立法，民商分立。", "page": "p.170—171", "tag": "制度", "children": [{"title": "《大清民律草案》", "note": "1911.10；5编；民商分立；前3编松冈义正（日德瑞），后2编礼学馆传统；第一部民法典草案。", "page": "p.170", "tag": "法典", "children": [], "_depth": 3, "_chapter": 4}, {"title": "商事立法", "note": "1903—1907/1907—1911；《钦定大清商律》《公司注册试办章程》《商标注册试办章程》《破产律》等；特点3。", "page": "p.170—171", "tag": "法典", "children": [], "_depth": 3, "_chapter": 4}], "_depth": 2, "_chapter": 4}, {"title": "北洋政府民商", "note": "“现行律民事有效部分”为第一顺位法源，民律第二次草案未完成。", "page": "p.171—172", "tag": "制度", "children": [{"title": "民事法律渊源", "note": "现行律民事有效部分（近20年）；单行法令；判例解释例；习惯法/条理。", "page": "p.171", "tag": "制度", "children": [], "_depth": 3, "_chapter": 4}, {"title": "《民律第二次草案》", "note": "1926；5编1522条；采固有法/判例；社会本位；未正式立法。", "page": "p.172", "tag": "法典", "children": [], "_depth": 3, "_chapter": 4}, {"title": "商事法规", "note": "《矿业条例》《森林法》《公司条例》《交易所法》《破产法草案》《票据法草案》等；多未完成立法。", "page": "p.172", "tag": "法典", "children": [], "_depth": 3, "_chapter": 4}], "_depth": 2, "_chapter": 4}, {"title": "南京国民政府民商", "note": "《中华民国民法》正式颁行，民商合一。", "page": "p.173—174", "tag": "制度", "children": [{"title": "《中华民国民法》", "note": "1929—1930；5编；民商合一；最新学理/婚姻家庭固有法/习惯法理/私有财产/社会本位。", "page": "p.173", "tag": "法典", "children": [], "_depth": 3, "_chapter": 4}, {"title": "单行商事立法", "note": "银行法、交易所法、票据法、公司法、海商法、保险法、破产法。", "page": "p.174", "tag": "法典", "children": [], "_depth": 3, "_chapter": 4}], "_depth": 2, "_chapter": 4}, {"title": "革命根据地民商", "note": "土地、劳动、婚姻三大立法线，服务革命与根据地建设。", "page": "p.175—177", "tag": "制度", "children": [{"title": "土地立法", "note": "井冈山1928/兴国1929/苏维埃土地法1931；抗日减租减息；五四指示1946；《中国土地法大纲》1947。", "page": "p.175—176", "tag": "法典", "children": [], "_depth": 3, "_chapter": 4}, {"title": "劳动立法", "note": "1931《中华苏维埃共和国劳动法》；抗日保护工人+团结资产阶级；1948 六次劳大。", "page": "p.176—177", "tag": "法典", "children": [], "_depth": 3, "_chapter": 4}, {"title": "婚姻立法", "note": "1934《中华苏维埃共和国婚姻法》（婚姻自由/婚龄/离婚自由）；抗日婚龄男20女18；人民民主政治条件/干部离婚。", "page": "p.177", "tag": "法典", "children": [], "_depth": 3, "_chapter": 4}], "_depth": 2, "_chapter": 4}], "_depth": 1, "_chapter": 4, "_color": "#a5763f"}, {"title": "第五章 司法制度", "note": "司法机构与诉讼审判制度的近代转型。", "page": "p.178—184", "tag": "章", "children": [{"title": "司法机构", "note": "法院组织、审级、检察、领事裁判权与会审公廨。", "page": "p.178—181", "tag": "制度", "children": [{"title": "清末", "note": "1906《大理院审判编制法》（第一部法院编制法、四级三审）；1910《法院编制法》；法部/大理院/审判厅/检察厅（审检合署）。", "page": "p.178—179", "tag": "机构", "children": [], "_depth": 3, "_chapter": 5}, {"title": "领事裁判权", "note": "1843《中英五口通商章程》《虎门条约》确立；被告主义；四类案件管辖。", "page": "p.178—179", "tag": "制度", "children": [], "_depth": 3, "_chapter": 5}, {"title": "会审公廨", "note": "1864 上海租界；1868《上海洋泾浜设官会审章程》；领事裁判权制度的延伸。", "page": "p.179", "tag": "机构", "children": [], "_depth": 3, "_chapter": 5}, {"title": "南京临时政府", "note": "临时中央审判所（未成立）/法院；司法部。", "page": "p.179", "tag": "机构", "children": [], "_depth": 3, "_chapter": 5}, {"title": "北洋政府", "note": "《暂行法院编制法》；平政院（最早行政诉讼）；四级三审；县知事兼理司法；军法审判。", "page": "p.179—180", "tag": "机构", "children": [], "_depth": 3, "_chapter": 5}, {"title": "南京国民政府", "note": "1932/1935《法院组织法》；三级三审；司法院/最高法院/行政法院/官吏惩戒委员会/特种刑事法庭。", "page": "p.180", "tag": "机构", "children": [], "_depth": 3, "_chapter": 5}, {"title": "革命根据地", "note": "工农民主四级二审/审检合一/政治保卫局；抗日两级两审/三级三审；人民民主三级三审/人民法庭。", "page": "p.180—181", "tag": "机构", "children": [], "_depth": 3, "_chapter": 5}], "_depth": 2, "_chapter": 5}, {"title": "诉讼审判制度", "note": "诉讼法近代化与各政权审判特点。", "page": "p.181—184", "tag": "制度", "children": [{"title": "清末诉讼法", "note": "1906《刑事民事诉讼法草案》（陪审/律师，搁置）；1909《大清刑事诉讼律草案》；1909《大清民事诉讼律草案》（第一部法典化民诉草案）；改革5项。", "page": "p.181—182", "tag": "法典", "children": [], "_depth": 3, "_chapter": 5}, {"title": "南京临时政府", "note": "司法独立；禁止刑讯；禁止体罚；公开审判及陪审；律师制度。", "page": "p.182", "tag": "原则", "children": [], "_depth": 3, "_chapter": 5}, {"title": "北洋政府", "note": "四级三审；兼理司法法院；军法审判干预司法。", "page": "p.182", "tag": "特点", "children": [], "_depth": 3, "_chapter": 5}, {"title": "南京国民政府", "note": "刑诉1928/1935；民诉1930—31/1935；特点：严密侦查、自由心证、秘密审判、军法审判、美军特权。", "page": "p.183", "tag": "特点", "children": [], "_depth": 3, "_chapter": 5}, {"title": "革命根据地", "note": "抗日：马锡五审判方式、人民调解（方式/原则/范围/处理）；人民民主：废除六法全书、确定司法原则。", "page": "p.183—184", "tag": "制度", "children": [], "_depth": 3, "_chapter": 5}], "_depth": 2, "_chapter": 5}], "_depth": 1, "_chapter": 5, "_color": "#4b6b9c"}], "_depth": 0};
 const TAG_COLORS = {"总览": "#1f3b34", "章": "#2f6d5f", "法典": "#8a5a9e", "制度": "#2f6d5f", "原则": "#b4534b", "特点": "#a5763f", "意义": "#4b6b9c", "对比": "#b4534b", "机构": "#4b6b9c", "背景": "#7d7f80"};
 const CHAPTER_COLORS = ["#2f6d5f", "#8a5a9e", "#b4534b", "#a5763f", "#4b6b9c"];
 const stage = document.getElementById('stage');

diff --git a/mindmaps/build.py b/mindmaps/build.py
@@ -147,13 +147,12 @@ CHAPTER_COLORS = ["#2f6d5f", "#8a5a9e", "#b4534b", "#a5763f", "#4b6b9c"]
 def walk(node, depth=0, chapter=0):
     node["_depth"] = depth
     if depth == 1:
-        chapter = node["_chapter"] = (chapter + 1)
+        node["_chapter"] = chapter
         node["_color"] = CHAPTER_COLORS[(chapter - 1) % len(CHAPTER_COLORS)]
     elif depth > 1:
         node["_chapter"] = chapter
-        node["_color"] = node.get("_color") or None
-    for c in node["children"]:
-        walk(c, depth + 1, chapter)
+    for i, c in enumerate(node["children"], 1):
+        walk(c, depth + 1, i if depth == 0 else chapter)
 
 
 walk(DATA)
